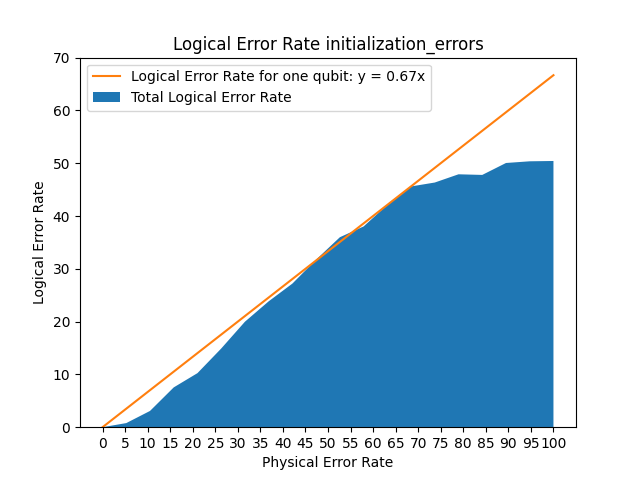
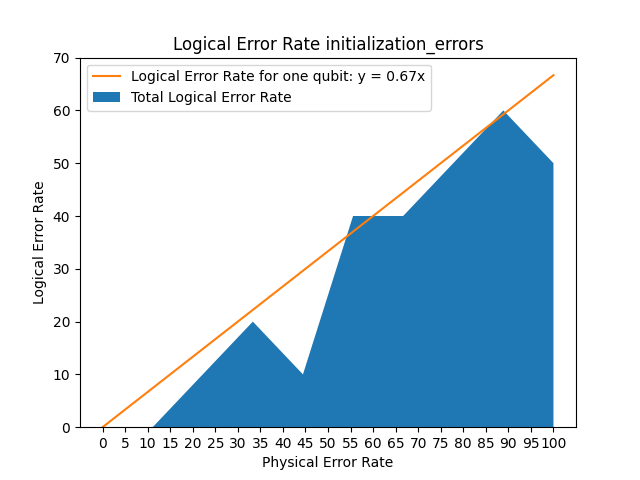
debugging

diff --git a/bs13/BS13_PauliSim.py b/bs13/BS13_PauliSim.py
@@ -171,7 +171,7 @@ class BaconShor13():
         if not sim:
             sim = PauliSim(initial_state = initial_state)
 
-        sim.addTag("Measure Syndrome")
+        sim.addTag("Stabilizer Measurement")
 
         if error:
             sim.addZStabilizer([0,3,1,4,2,5], 9, self.errorRate)
@@ -230,6 +230,7 @@ def SimulateEncoding(min_error_rate, max_error_rate, samples, repetitions, mode)
     def LogicalError(state):
         both_errors = ["code_capacity"]
         if mode in both_errors:
+            print("both errors")
             return True if sum(state[:,0]) % 2 or sum(state[:,1])%2 else False # checks both X and Z errors
         return True if sum(state[:,0])%2 else False # only checks X errors
 
@@ -245,13 +246,17 @@ def SimulateEncoding(min_error_rate, max_error_rate, samples, repetitions, mode)
                 # check the parity of the x bits and the z bits - even parity for both means no errors
                 if LogicalError(bs13.state):
                     error_not_corrected[i] += 1
+                    print("Error Not Corrected")
                 else:
                     error_corrected[i] += 1
+                    print("Error Corrected")
             else:
                 if LogicalError(bs13.state):
                     error_not_detected[i] +=1
+                    print("Error Not Detected")
                 else:
                     no_error[i] += 1
+                    print("No Error")
             if j<10:
                 print(bs13.state)
                 print(bs13.appliedchannels)
@@ -311,8 +316,8 @@ def v1():#repetitons, x_tick_number, min_error_rate, max_error_rate, mode):
     """Runs monte-carlo simulation for specified parameters and saves results and plots logical error rate against physical error rate
     """
     # Generate Data
-    repetitions = 5000
-    x_tick_number = 20
+    repetitions = 10
+    x_tick_number = 10
     min_error_rate = 0
     max_error_rate = 1
     mode = "initialization_errors"
